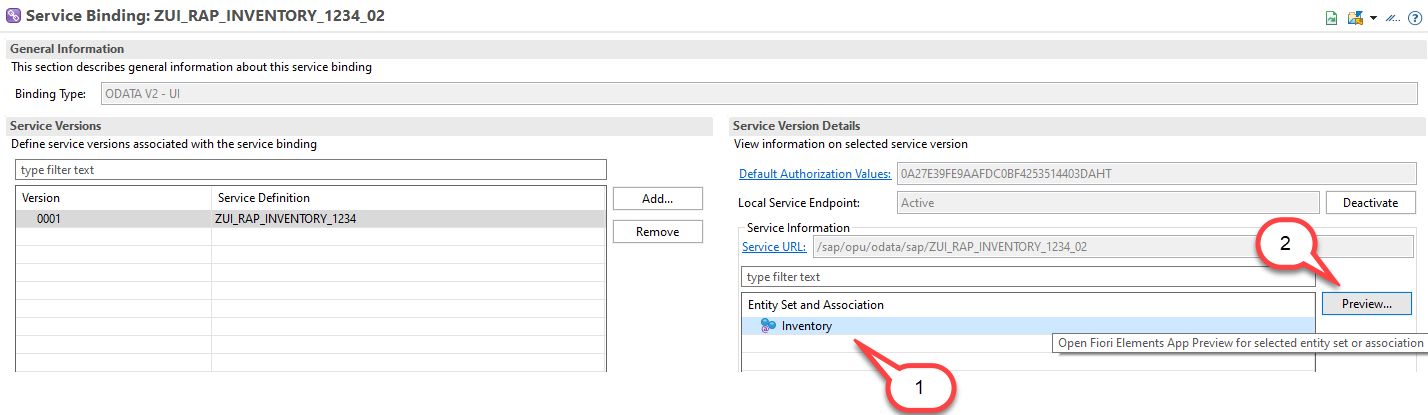
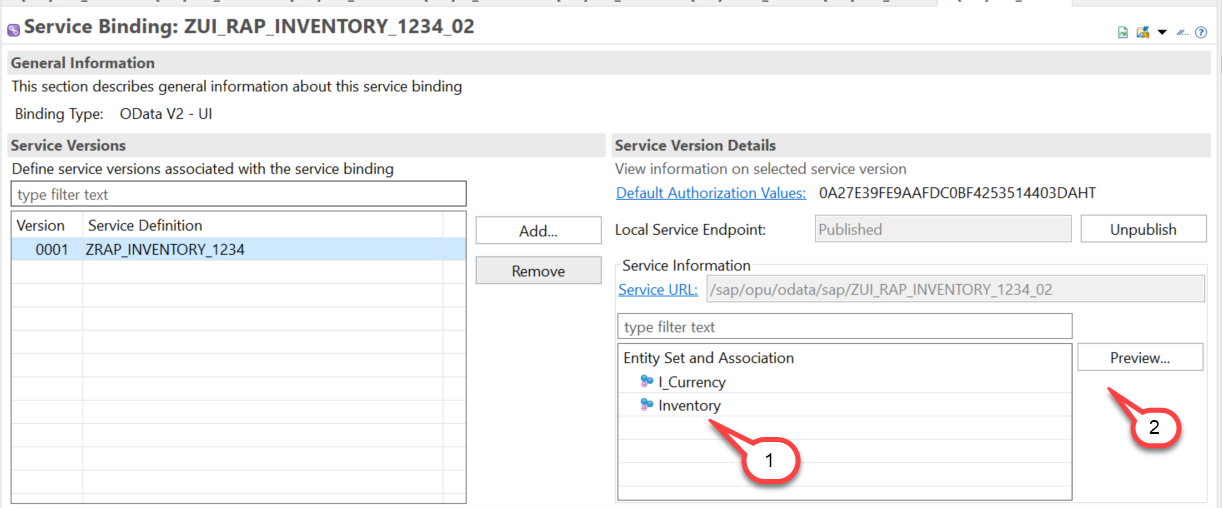
Add files via upload

diff --git a/exercises/ex1/README.md b/exercises/ex1/README.md
@@ -100,182 +100,14 @@ Now after you have created a package we can start developing a class.
 
     ![Select transport request](images/1020.png)
 
-5. Copy and paste the code shown below thereby replacing the template coding.
+5. Copy and paste the code from the **sources** sub folder 
 
-    ![Code template Inventory Table](images/1030.png)
+    [zcl_generate_dev269_####](sources/zcl_generate_dev268.txt)   
+    
+    thereby replacing the placeholder **`####`** in the template coding as shown in the following screen shot.    
 
-<pre>
-CLASS zcl_generate_dev268_#### DEFINITION
- PUBLIC
-  INHERITING FROM cl_xco_cp_adt_simple_classrun
-  FINAL
-  CREATE PUBLIC .
+    ![Code template Inventory Table](images/1030.png)  
 
-  PUBLIC SECTION.
-
-  PROTECTED SECTION.
-    METHODS main REDEFINITION.
-  PRIVATE SECTION.
-
-    DATA package_name  TYPE sxco_package VALUE  'ZRAP_INVENTORY_####'.
-    DATA unique_number TYPE string VALUE '####'.
-    DATA table_name_inventory  TYPE sxco_dbt_object_name.
-    DATA dev_system_environment TYPE REF TO if_xco_cp_gen_env_dev_system.
-    DATA transport TYPE sxco_transport .
-
-    METHODS generate_table  IMPORTING io_put_operation        TYPE REF TO if_xco_cp_gen_d_o_put
-                                      table_name              TYPE sxco_dbt_object_name
-                                      table_short_description TYPE if_xco_cp_gen_tabl_dbt_s_form=>tv_short_description .
-
-    METHODS get_json_string RETURNING VALUE(json_string) TYPE string.
-
-ENDCLASS.
-
-CLASS zcl_generate_dev268_#### IMPLEMENTATION.
-  METHOD main.
-
-    package_name = to_upper( package_name ).
-
-    DATA(lo_package) = xco_cp_abap_repository=>object->devc->for( package_name ).
-    DATA(lv_package_software_component) = lo_package->read( )-property-software_component->name.
-    DATA(lo_transport_layer) = lo_package->read(  )-property-transport_layer.
-    DATA(lo_transport_target) = lo_transport_layer->get_transport_target( ).
-    DATA(lv_transport_target) = lo_transport_target->value.
-    DATA(lo_transport_request) = xco_cp_cts=>transports->workbench( lo_transport_target->value  )->create_request( | create tables |  ).
-    DATA(lv_transport) = lo_transport_request->value.
-    transport = lv_transport.
-    dev_system_environment = xco_cp_generation=>environment->dev_system( lv_transport ).
-
-    IF NOT lo_package->exists( ).
-
-      RAISE EXCEPTION TYPE zcx_rap_generator
-        EXPORTING
-          textid   = zcx_rap_generator=>package_does_not_exist
-          mv_value = CONV #( package_name ).
-
-    ENDIF.
-
-    DATA(lo_objects_put_operation) = dev_system_environment->create_put_operation( ).
-
-    table_name_inventory = |ZRAP_INVEN_{ unique_number }|.
-
-    DATA(json_string) = get_json_string(  ).
-
-    generate_table(
-      EXPORTING
-        io_put_operation        = lo_objects_put_operation
-        table_name              = table_name_inventory
-        table_short_description = | Inventory data group { unique_number }|
-    ).
-
-    DATA(lo_result) = lo_objects_put_operation->execute( ).
-
-    out->write( 'tables created' ).
-
-    DATA(lo_findings) = lo_result->findings.
-    DATA(lt_findings) = lo_findings->get( ).
-
-    IF lt_findings IS NOT INITIAL.
-      out->write( lt_findings ).
-    ENDIF.
-
-    "create RAP BO
-
-    DATA(xco_api) = NEW zcl_rap_xco_cloud_lib( ).
-    DATA(root_node) = NEW zcl_rap_node(  ).
-    root_node->set_is_root_node( ).
-    root_node->set_xco_lib( xco_api ).
-    DATA(rap_bo_visitor) = NEW zcl_rap_xco_json_visitor( root_node ).
-    DATA(json_data) = xco_cp_json=>data->from_string( json_string ).
-    json_data->traverse( rap_bo_visitor ).
-    DATA(rap_bo_generator) = NEW zcl_rap_bo_generator( root_node ).
-    DATA(lt_todos) = rap_bo_generator->generate_bo(  ).
-
-    out->write( | RAP BO { root_node->rap_root_node_objects-behavior_definition_i  } generated successfully | ).
-
-  ENDMETHOD.
-
-
-  METHOD generate_table.
-
-    DATA(lo_specification) = io_put_operation->for-tabl-for-database_table->add_object( table_name
-                )->set_package( package_name
-                 )->create_form_specification( ).
-
-    lo_specification->set_short_description( table_short_description ).
-    lo_specification->set_delivery_class( xco_cp_database_table=>delivery_class->l ).
-    lo_specification->set_data_maintenance( xco_cp_database_table=>data_maintenance->allowed ).
-
-
-    DATA database_table_field  TYPE REF TO if_xco_gen_tabl_dbt_s_fo_field  .
-
-    database_table_field = lo_specification->add_field( 'CLIENT' ).
-    database_table_field->set_type( xco_cp_abap_dictionary=>data_element( 'MANDT' ) )->set_key_indicator( )->set_not_null( ).
-
-    database_table_field = lo_specification->add_field( 'UUID' ).
-    database_table_field->set_type( xco_cp_abap_dictionary=>data_element( 'SYSUUID_X16' ) )->set_key_indicator( )->set_not_null( ).
-
-    database_table_field = lo_specification->add_field( 'INVENTORY_ID' ).
-    database_table_field->set_type( xco_cp_abap_dictionary=>built_in_type->numc( 6  ) ).
-
-    database_table_field = lo_specification->add_field( 'PRODUCT_ID' ).
-    database_table_field->set_type( xco_cp_abap_dictionary=>built_in_type->char( 10  ) ).
-
-
-    database_table_field = lo_specification->add_field( 'QUANTITY' ).
-    database_table_field->set_type( xco_cp_abap_dictionary=>built_in_type->quan( iv_length = 13 iv_decimals = 3 ) ).
-    database_table_field->currency_quantity->set_reference_table( CONV #( to_upper( table_name ) ) )->set_reference_field( 'QUANTITY_UNIT' ).
-
-    database_table_field = lo_specification->add_field( 'QUANTITY_UNIT' ).
-    database_table_field->set_type( xco_cp_abap_dictionary=>built_in_type->unit( 3  ) ).
-
-    database_table_field = lo_specification->add_field( 'PRICE' ).
-    database_table_field->set_type( xco_cp_abap_dictionary=>built_in_type->curr( iv_length = 16 iv_decimals = 2 ) ).
-    database_table_field->currency_quantity->set_reference_table( CONV #( to_upper( table_name ) ) )->set_reference_field( 'CURRENCY_CODE' ).
-
-    database_table_field = lo_specification->add_field( 'CURRENCY_CODE' ).
-    database_table_field->set_type( xco_cp_abap_dictionary=>built_in_type->cuky ).
-
-    database_table_field = lo_specification->add_field( 'REMARK' ).
-    database_table_field->set_type( xco_cp_abap_dictionary=>built_in_type->char( 256  ) ).
-
-    database_table_field = lo_specification->add_field( 'NOT_AVAILABLE' ).
-    database_table_field->set_type( xco_cp_abap_dictionary=>data_element( 'ABAP_BOOLEAN' ) ).
-
-    database_table_field = lo_specification->add_field( 'CREATED_BY' ).
-    database_table_field->set_type( xco_cp_abap_dictionary=>data_element( 'SYUNAME' ) ).
-
-    database_table_field = lo_specification->add_field( 'CREATED_AT' ).
-    database_table_field->set_type( xco_cp_abap_dictionary=>data_element( 'TIMESTAMPL' ) ).
-
-    database_table_field = lo_specification->add_field( 'LAST_CHANGED_BY' ).
-    database_table_field->set_type( xco_cp_abap_dictionary=>data_element( 'SYUNAME' ) ).
-
-    database_table_field = lo_specification->add_field( 'LAST_CHANGED_AT' ).
-    database_table_field->set_type( xco_cp_abap_dictionary=>data_element( 'TIMESTAMPL' ) ).
-
-  ENDMETHOD.
-
-  METHOD get_json_string.
-
-    json_string ='{' && |\r\n|  &&
-                 '  "implementationType": "managed_uuid",' && |\r\n|  &&
-                 '  "namespace": "Z",' && |\r\n|  &&
-                 |  "suffix": "_{ unique_number }",| && |\r\n|  &&
-                 '  "prefix": "RAP_",' && |\r\n|  &&
-                 |  "package": "{ package_name }",| && |\r\n|  &&
-                 '  "datasourcetype": "table",' && |\r\n|  &&
-                 '  "hierarchy": {' && |\r\n|  &&
-                 '    "entityName": "Inventory",' && |\r\n|  &&
-                 |    "dataSource": "zrap_inven_{ unique_number }",| && |\r\n|  &&
-                 '    "objectId": "inventory_id"    ' && |\r\n|  &&
-                 '    }' && |\r\n|  &&
-                 '}'.
-
-  ENDMETHOD.
-
-ENDCLASS.
-</pre>
 
 7. Replace the placeholder **`####`** with your group number.
 
@@ -336,6 +168,8 @@ ENDCLASS.
 
 14. Select the entity **Inventory** and press the **Preview** button to start the *Fiori Elements Preview*.
 
+    (The service also contains an entity I_Currency since the RAP Generator has added a value help for Currencies to the projection view.) 
+
    ![Start Fiori Elements Preview](images/0460.png)
 
 15. Check the Fiori Elements Preview App. You will notice that we got a nearly full fledged UI with capabilities for 
@@ -350,7 +184,7 @@ In addition all columns of the table are displayed by default as well since we h
 If you do not want to see all columns (either on the list- or the object page) you can comment out these annotations.
 This is however much simpler than having to write all these annotations from scratch.
 
-15. You can try and start entering values for your first inventory item.
+16. You can try and start entering values for your first inventory item.
 However no checks nor any value help have been implemented yet. 
 Especially not for the determination of the semantic key **InventoryId**.
 
@@ -361,7 +195,7 @@ This we will do in the next step.
 
 ## Check the generated repository objects
 
-The interface view was generated such that based on the ABAP field names aliases have been created such that the ABAP field name was converted into camelCase notation.
+The **interface view ZI_RAP_Inventory_####** was generated such that based on the ABAP field names aliases have been created such that the ABAP field name was converted into camelCase notation.
 
 <pre>
 define root view entity ZI_RAP_INVENTORY_1234
@@ -377,7 +211,37 @@ define root view entity ZI_RAP_INVENTORY_1234
  }
 </pre>
 
-The behavior implementation was generated such that the field **InventoryID** which acts as a semantic key was marked as readonly.
+The **projection view ZC_RAP_Inventory_####** was generated such that it contains annotations for **search** and a value help for the field **CurrencyCode**.
+
+<pre>
+define root view entity ZC_RAP_INVENTORY_####
+  as projection on ZI_RAP_Inventory_####
+{
+  @Search.defaultSearchElement: true
+  key UUID,
+  
+  @Search.defaultSearchElement: true
+  InventoryID,
+  
+  ProductID,
+  
+  Quantity,
+  
+  QuantityUnit,
+  
+  @Semantics.amount.currencyCode: 'CurrencyCode'
+  Price,
+  
+  @Consumption.valueHelpDefinition: [ {
+    entity: {
+      name: 'I_Currency', 
+      element: 'Currency'
+    }
+  } ]
+  CurrencyCode,
+</pre>
+
+The **behavior definion ZI_RAP_Inventory_####** was generated such that the field **InventoryID** which acts as a semantic key was marked as readonly.
 
 <pre>
 field ( readonly ) InventoryID;
@@ -411,7 +275,7 @@ Please make sure that the determination that is performed during the **'save*** 
 determination CalculateInventoryID on save { create; }
 </pre> 
  
-Last but not least, you will find it handy that a Metadata Extension View has also been generated that automatically publishes all field on the list page as well as on the object page by setting appropriate **@UI** annotations. Also the administrative fields like created_at as well as the UUID based key field are hidden by setting **@UI.hidden** to true.
+Last but not least, you will find it handy that a **Metadata Extension View ZC_RAP_Inventory_####** has also been generated that automatically publishes all field on the list page as well as on the object page by setting appropriate **@UI** annotations. Also the administrative fields like created_at as well as the UUID based key field are hidden by setting **@UI.hidden** to true.
  
  <pre>
    @UI.hidden: true
